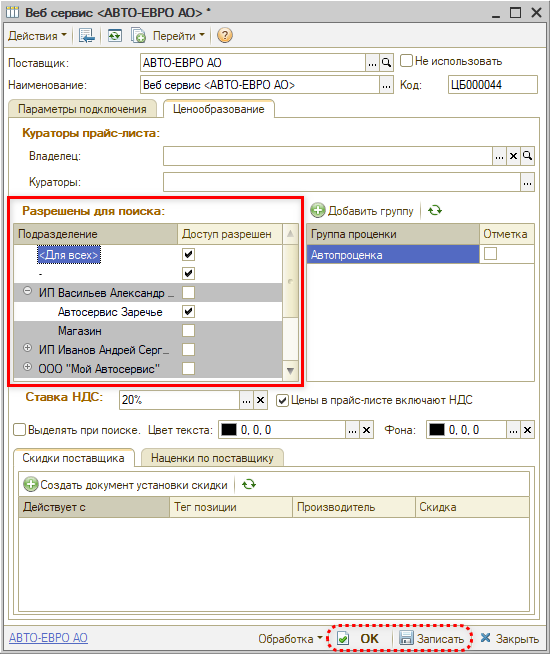
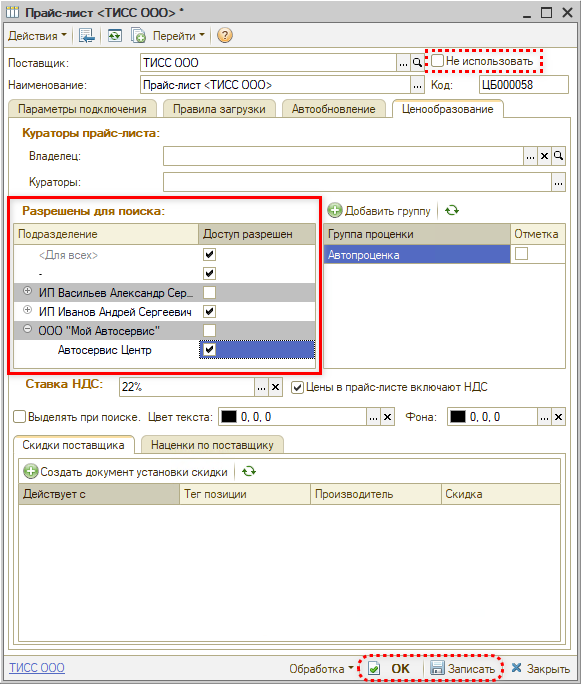
Прайс-листы - скриншот карточки в шаге 2 и галочка Не использовать, в релизе 2.8.5 ссылки на разделы обеих статей (18.11.2026)

diff --git a/articles/5S AUTO/История релизов/Релиз 2.8.5/reliz-5s-auto-2-8-5.md b/articles/5S AUTO/История релизов/Релиз 2.8.5/reliz-5s-auto-2-8-5.md
@@ -167,7 +167,10 @@
 
 📋 ***Вывод прайс-листов в Поиске цен настраивается по организациям и подразделениям.*** В карточке прайс-листа на вкладке *«Ценообразование»* появился раздел ***«Разрешены для поиска»:*** в нем видно, в каких организациях и подразделениях доступен прайс-лист, а галочкой *«Доступ разрешен»* доступ включается и выключается. Так поставщика можно скрыть из Поиска цен во всех подразделениях сразу или только в отдельных.
 
-> 📚 *См. обновленную статью на Базе знаний: [Создание и настройка прайс-листа контрагента](../../Склад%20и%20запчасти/Создание%20и%20настройка%20прайс-листа%20контрагента/sozdanie-i-nastroyka-prays-lista-kontragenta.md)*
+> 📚 *См. обновленные статьи на Базе знаний:*
+>
+> - *[Создание и настройка прайс-листа контрагента → Шаг 2. Доступ к прайс-листу](../../Склад%20и%20запчасти/Создание%20и%20настройка%20прайс-листа%20контрагента/sozdanie-i-nastroyka-prays-lista-kontragenta.md#настройка-прайс-листа-шаг-2-доступ-к-прайс-листу);*
+> - *[Создание и настройка Веб прайс-листа → Доступ к Веб прайс-листу в Поиске цен](../../Склад%20и%20запчасти/Создание%20и%20настройка%20Веб%20прайс-листа/sozdanie-i-nastroyka-veb-prays-lista.md#доступ-к-веб-прайс-листу-в-поиске-цен)*
 
 ---
 

diff --git a/articles/5S AUTO/Склад и запчасти/Создание и настройка прайс-листа контрагента/sozdanie-i-nastroyka-prays-lista-kontragenta.md b/articles/5S AUTO/Склад и запчасти/Создание и настройка прайс-листа контрагента/sozdanie-i-nastroyka-prays-lista-kontragenta.md
@@ -105,6 +105,8 @@
 
 3. после изменений в настройках прайс-листа, нажмите кнопку "Записать".
 
+Чтобы полностью убрать прайс-лист с панели прайс-листов в Поиске цен, установите в шапке карточки галочку "Не использовать".
+
 #### Настройка прайс-листа (Шаг 3). Автообновление
 
 Автоматическая загрузка и обновление прайс-листов настраивается на вкладке "Автообновление". Настройку необходимо производить только если есть желание, чтобы Система автоматически загружала все изменения по прайс-листам. В противном случае, можно просто каждый раз производить загрузку из файла вручную.
